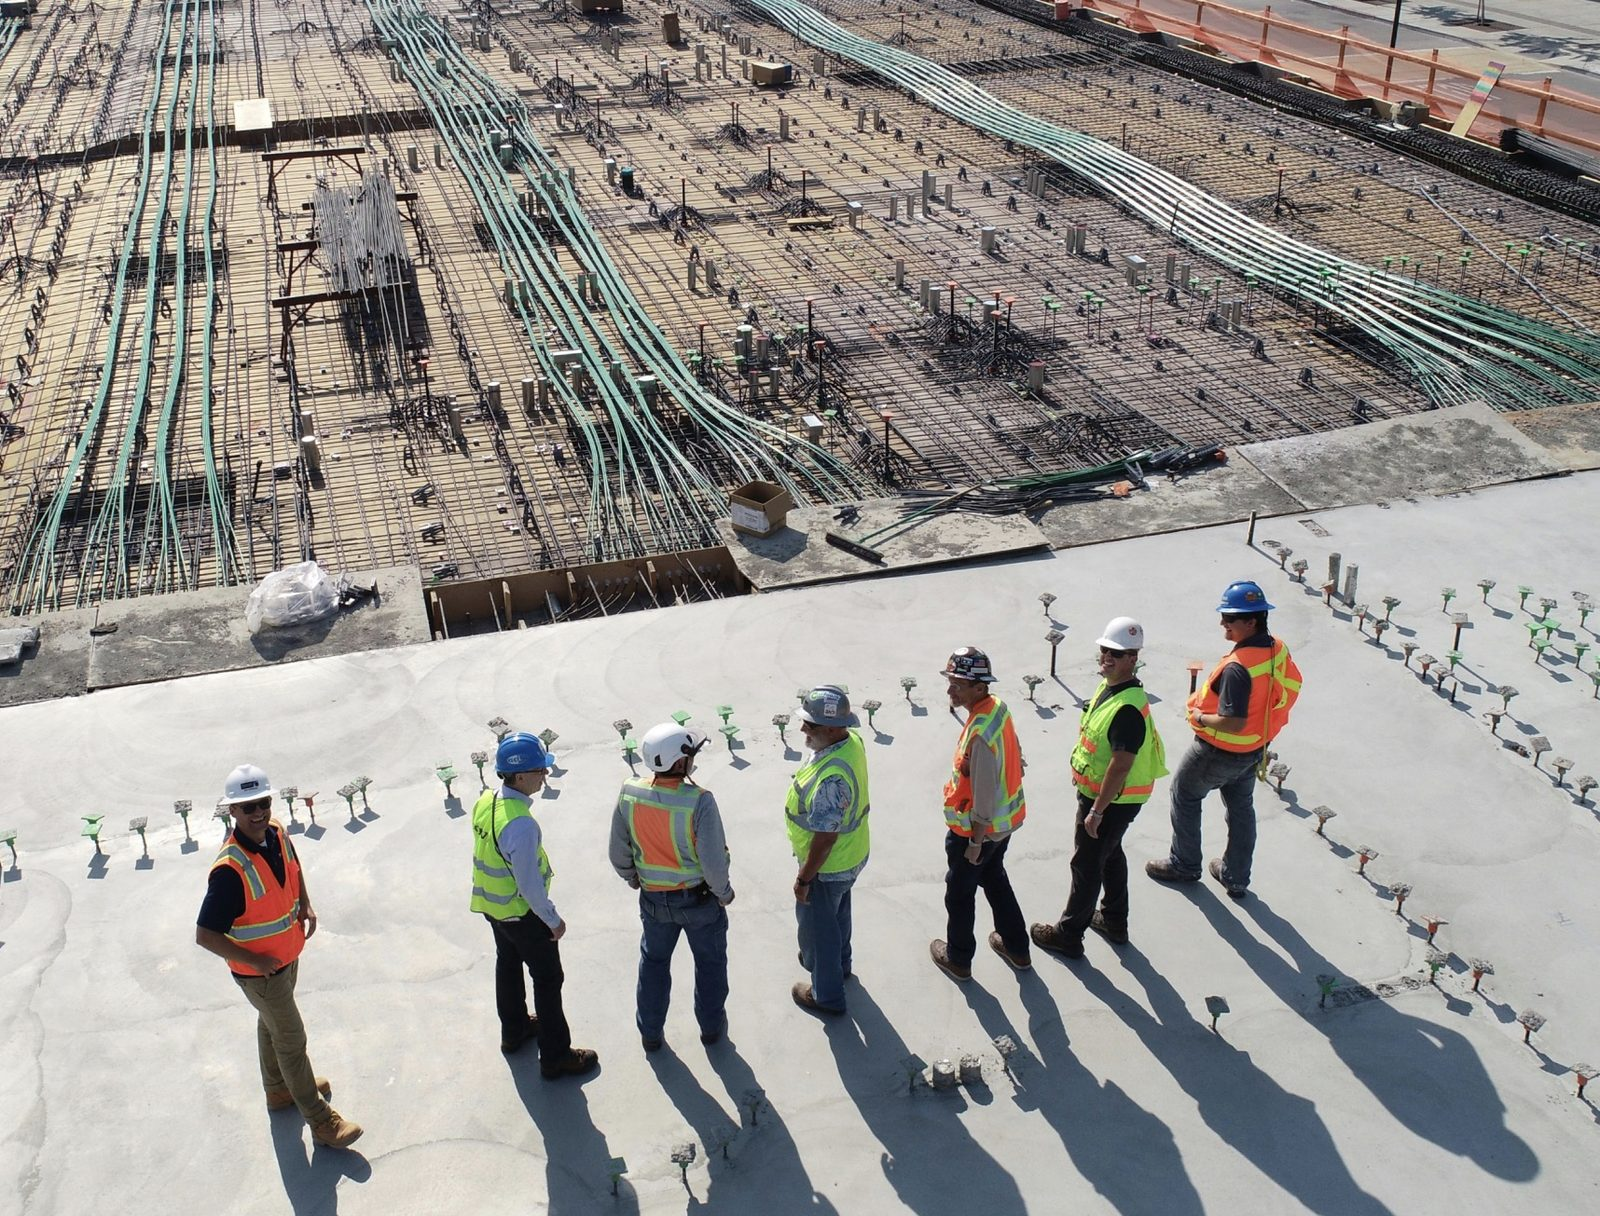
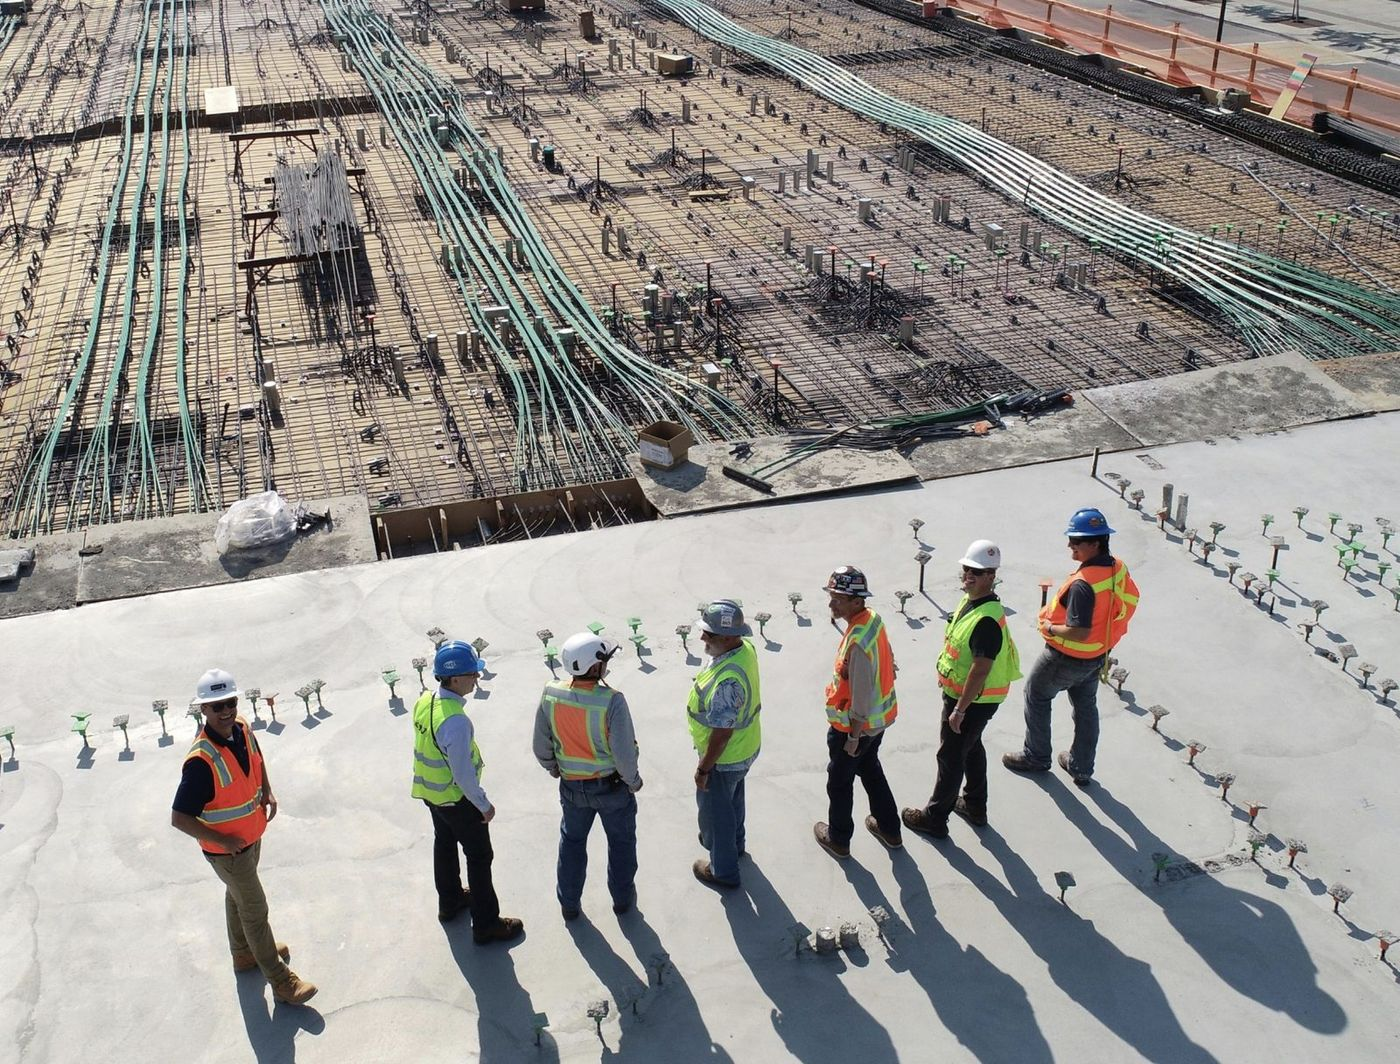
Add a "Utilajele noastre" fleet section with transparent equipment cutouts
Cut out 5 pieces of equipment (CAT excavator, Bobcat E59, Komatsu
dozer, Bobcat S185, Mercedes Actros) with backgrounds removed, sourced
from the clean product-style photos rather than the busy job-site
action shots (which don't segment cleanly). Skipped the 6th (a
compactor stock photo) since it carries another company's branding.
Shown as a horizontal card strip between the services list and the
statement break; scrollable on mobile, a 5-column grid on desktop.
Also compressed the team-rooftop photo, which was still full-size.

Claude-Session: https://claude.ai/code/session_01EKzYqcdtUEQZAvWVc1pkM7

diff --git a/v2/index.html b/v2/index.html
@@ -140,6 +140,37 @@
   </div>
 </section>
 
+<!-- FLEET -->
+<section class="fleet">
+  <div class="work-head reveal">
+    <span class="tag">02</span>
+    <h2>Utilajele noastre</h2>
+    <p class="work-sub">Nu închiriem de la terți — venim mereu cu utilajele proprii, întreținute și verificate.</p>
+  </div>
+  <div class="fleet-strip">
+    <div class="fleet-item reveal">
+      <img src="images/eq-cat.webp" alt="Excavator CAT" loading="lazy">
+      <span>Excavator CAT</span>
+    </div>
+    <div class="fleet-item reveal">
+      <img src="images/eq-e59.webp" alt="Bobcat E59" loading="lazy">
+      <span>Bobcat E59</span>
+    </div>
+    <div class="fleet-item reveal">
+      <img src="images/eq-komatsu.webp" alt="Buldozer Komatsu" loading="lazy">
+      <span>Komatsu D37PXi</span>
+    </div>
+    <div class="fleet-item reveal">
+      <img src="images/eq-s185.webp" alt="Bobcat S185" loading="lazy">
+      <span>Bobcat S185</span>
+    </div>
+    <div class="fleet-item reveal">
+      <img src="images/eq-actros.webp" alt="Mercedes Actros" loading="lazy">
+      <span>Mercedes Actros</span>
+    </div>
+  </div>
+</section>
+
 <!-- STATEMENT BREAK -->
 <section class="statement">
   <div class="statement-media">
@@ -154,7 +185,7 @@
 <!-- PROCESS -->
 <section class="process">
   <div class="work-head reveal">
-    <span class="tag">02</span>
+    <span class="tag">03</span>
     <h2>Cum lucrăm</h2>
   </div>
   <ol class="steps">
@@ -184,7 +215,7 @@
 <!-- PROJECTS -->
 <section class="projects" id="proiecte">
   <div class="work-head reveal">
-    <span class="tag">03</span>
+    <span class="tag">04</span>
     <h2>Lucrări recente</h2>
     <p class="work-sub">Trei situații reale, din trei șantiere diferite.</p>
   </div>
@@ -229,7 +260,7 @@
     <img src="images/team-rooftop.jpg" alt="Echipa Masbalt Construct pe șantier">
   </div>
   <div class="team-text reveal">
-    <span class="tag">04</span>
+    <span class="tag">05</span>
     <h2>Oamenii care fac treaba</h2>
     <p>50 de operatori, ingineri și coordonatori de proiect. Fiecare știe utilajul pe care îl conduce și etapa la care lucrează, ca lucrarea să înainteze fără opriri și fără explicații suplimentare.</p>
     <p>Nu trimitem echipe la întâmplare — coordonatorul care preia cererea rămâne responsabil de lucrare până la predare.</p>
@@ -250,7 +281,7 @@
 <!-- FAQ -->
 <section class="faq">
   <div class="work-head reveal">
-    <span class="tag">05</span>
+    <span class="tag">06</span>
     <h2>Întrebări frecvente</h2>
   </div>
   <div class="faq-list">
@@ -272,7 +303,7 @@
 <!-- CONTACT -->
 <section class="contact" id="contact">
   <div class="contact-head reveal">
-    <span class="tag">06</span>
+    <span class="tag">07</span>
     <h2>Hai să vorbim</h2>
     <p class="work-sub">Trimite câteva detalii despre lucrare și revenim cu o estimare în cel mult 24h.</p>
   </div>

diff --git a/v2/css/style.css b/v2/css/style.css
@@ -256,6 +256,39 @@ ul{ margin: 0; padding: 0; list-style: none; }
   .svc-preview{ display: block; }
 }
 
+/* ---------- fleet ---------- */
+.fleet{ padding: 0 6vw 110px; border-bottom: 1px solid var(--line); }
+.fleet-strip{
+  display: flex;
+  gap: 14px;
+  overflow-x: auto;
+  padding-bottom: 10px;
+  scroll-snap-type: x mandatory;
+  -webkit-overflow-scrolling: touch;
+}
+.fleet-strip::-webkit-scrollbar{ height: 6px; }
+.fleet-strip::-webkit-scrollbar-thumb{ background: var(--line); border-radius: 3px; }
+.fleet-item{
+  flex: 0 0 auto;
+  width: 220px;
+  scroll-snap-align: start;
+  background: #161617;
+  border: 1px solid var(--line);
+  border-radius: 12px;
+  padding: 18px;
+  display: flex;
+  flex-direction: column;
+  align-items: center;
+  gap: 12px;
+}
+.fleet-item img{ width: 100%; height: 130px; object-fit: contain; }
+.fleet-item span{ font-size: .85rem; font-weight: 600; letter-spacing: .01em; text-align: center; }
+
+@media (min-width: 860px){
+  .fleet-strip{ overflow-x: visible; }
+  .fleet-item{ width: auto; flex: 1 1 0; }
+}
+
 /* ---------- statement break ---------- */
 .statement{ position: relative; height: 62vh; min-height: 380px; overflow: hidden; }
 .statement-media img{ width: 100%; height: 100%; object-fit: cover; }
